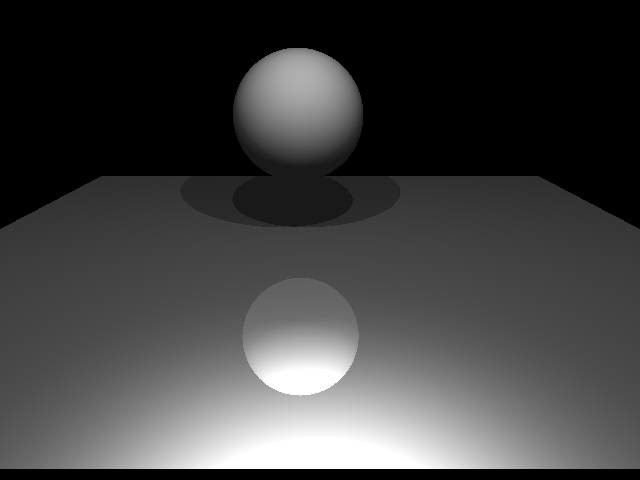
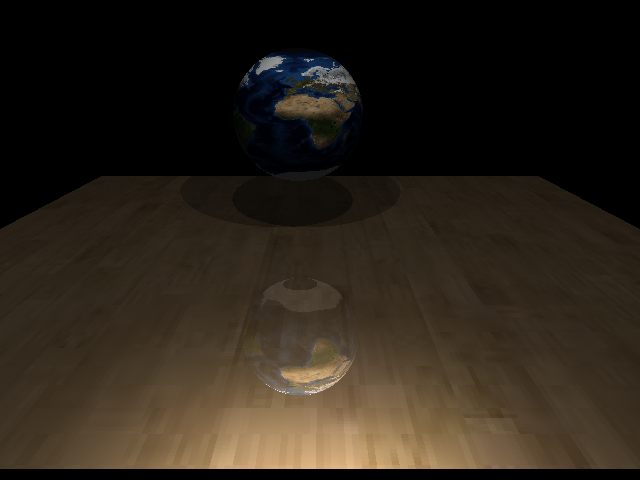
Fixed textures not showing

diff --git a/Model.cpp b/Model.cpp
@@ -147,11 +147,17 @@ Model::processMesh(aiMesh *mesh, const aiScene *scene)
 		vector.z = mesh->mVertices[i].z;
 		vertex.Position = vec3 (_transform * vec4(vector, 1.0f));;
 		// normals
-		vector.x = mesh->mNormals[i].x;
-		vector.y = mesh->mNormals[i].y;
-		vector.z = mesh->mNormals[i].z;
-		//vertex.Normal = _invTransposeTrans * vector;
-		vertex.Normal = vector;
+		if (mesh->mNormals) {
+			vector.x = mesh->mNormals[i].x;
+			vector.y = mesh->mNormals[i].y;
+			vector.z = mesh->mNormals[i].z;
+			//vertex.Normal = _invTransposeTrans * vector; //TODO - consider
+			vertex.Normal = vector;
+		}
+		else {
+			vertex.Normal = glm::vec3(0.0f, 0.0f, 0.0f);
+		}
+
 		// texture coordinates
 		if(mesh->mTextureCoords[0]) // does the mesh contain texture coordinates?
 		{

diff --git a/main.cpp b/main.cpp
@@ -166,10 +166,10 @@ static void render_scene(string fileName)
 	Image *img = nullptr;
 
 	if (singleThreaded) {
-		rayTracer.rayTraceST(renderInfo->camera, renderInfo->scene, renderInfo->width, renderInfo->height, renderInfo->maxDepth);
+		img = rayTracer.rayTraceST(renderInfo->camera, renderInfo->scene, renderInfo->width, renderInfo->height, renderInfo->maxDepth);
 	}
 	else {
-		rayTracer.rayTraceMT(renderInfo->camera, renderInfo->scene, renderInfo->width, renderInfo->height, renderInfo->maxDepth);
+		img = rayTracer.rayTraceMT(renderInfo->camera, renderInfo->scene, renderInfo->width, renderInfo->height, renderInfo->maxDepth);
 	}
 
 

diff --git a/SceneParser.cpp b/SceneParser.cpp
@@ -10,6 +10,7 @@
 #include <set>
 #include <GL/glew.h>
 #include <GL/glut.h>
+#include <boost/algorithm/string.hpp>
 
 #include "SceneParser.h"
 #include "Camera.h"
@@ -186,7 +187,6 @@ SceneParser::readValues(stringstream &s, const int numOfVals, GLfloat* values)
 }
 
 
-
 RenderInfo*
 SceneParser::readFile(const char* fileName)
 {
@@ -212,6 +212,7 @@ SceneParser::readFile(const char* fileName)
 	while (in) {
 
 		getline(in, str);
+		boost::algorithm::trim(str);
 
 		// Ignore comments and white spaces of any kind
 		if ( !((str.find_first_not_of(" \t\r\n") != string::npos) && (str[0] != '#') ))  {

diff --git a/Object.cpp b/Object.cpp
@@ -41,6 +41,12 @@ void Object::setTexture(Image *texture)
 	if (texture == nullptr)
 		return;
 
+	// TODO - Currently, an object has one texture. Its meshes can have different types of texture.
+	// The texture bound from .rt file is global, and is similar in all attributes. Next phases, different global textures will be supported.
+	// This idiom will enable us to quickly expand the functionality.
+	this->_ambientTexture = texture;
+	this->_diffuseTexture = texture;
+	this->_speularTexture = texture;
 //	this->_texture = texture;
 //	this->_textured = true;
 

diff --git a/RayTracer.cpp b/RayTracer.cpp
@@ -94,6 +94,13 @@ Image* RayTracer::rayTraceST(Camera & camera, Scene & scene, GLuint width, GLuin
 			Ray ray = camera.generateRay(i + .5, j - .5);
 			color = recursiveRayTrace(scene, ray, maxDepth);
 			image->setPixel(i, j, color);
+
+
+		}
+
+		if (i % 20 == 0) {
+			cout << "\tProgress: [ "<< setprecision(1) << fixed << (i / (GLfloat)width) * 100.0 << "% ] \r";
+			cout.flush();
 		}
 	}
 
